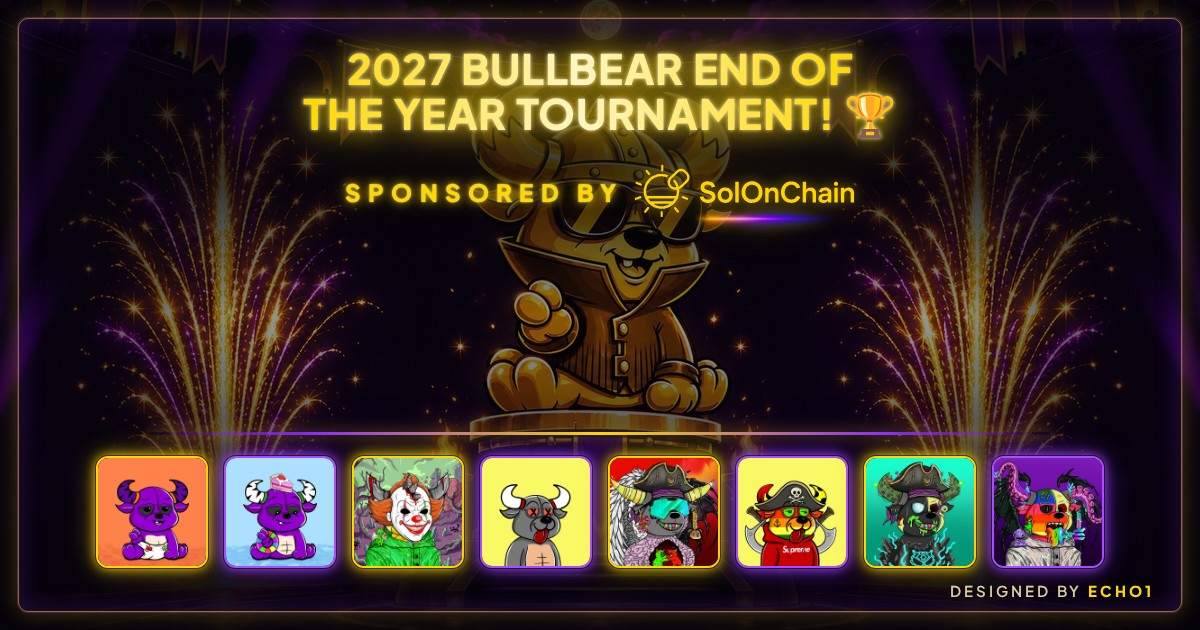
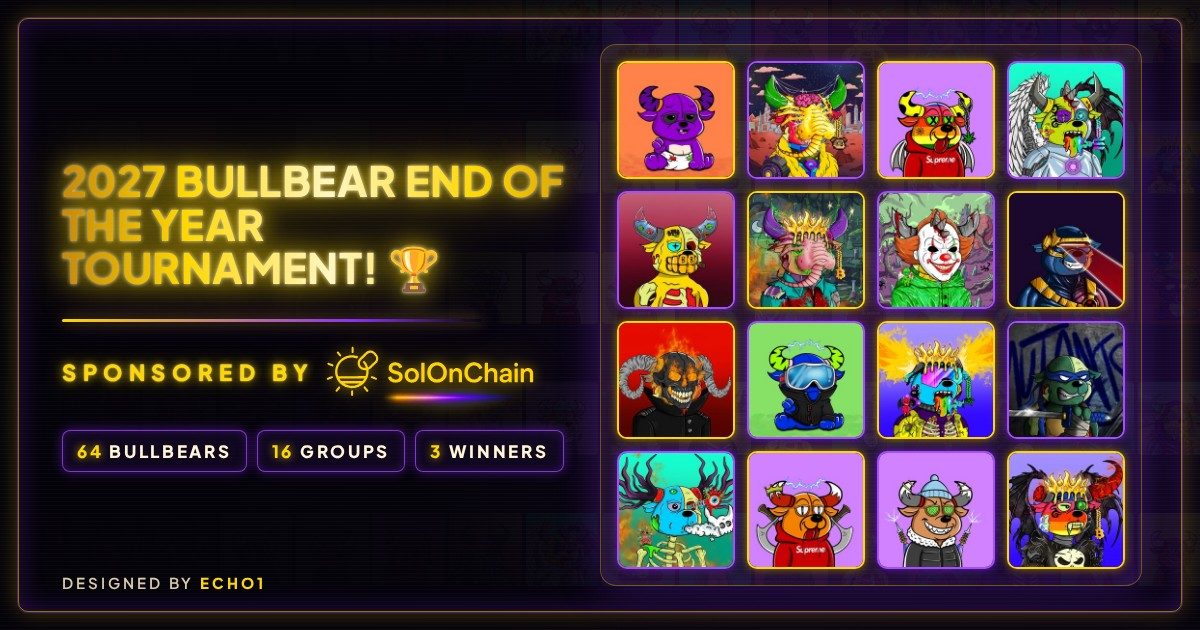
New BullBear preview card

diff --git a/soc_bracket/index.html b/soc_bracket/index.html
@@ -8,12 +8,12 @@
 <meta property="og:type" content="website">
 <meta property="og:title" content="2027 BullBear End of the Year TOURNamENT! 🏆">
 <meta property="og:url" content="https://echo1onchain.xyz/soc_bracket/">
-<meta property="og:image" content="https://echo1onchain.xyz/soc_bracket/og.jpg?v=fd5d3faa58">
+<meta property="og:image" content="https://echo1onchain.xyz/soc_bracket/og.jpg?v=ae2281afda">
 <meta property="og:image:width" content="1200">
 <meta property="og:image:height" content="630">
 <meta name="twitter:card" content="summary_large_image">
 <meta name="twitter:title" content="2027 BullBear End of the Year TOURNamENT! 🏆">
-<meta name="twitter:image" content="https://echo1onchain.xyz/soc_bracket/og.jpg?v=fd5d3faa58">
+<meta name="twitter:image" content="https://echo1onchain.xyz/soc_bracket/og.jpg?v=ae2281afda">
 <meta name="description" content="View the live bracket · Sponsored by SolOnChain">
 <meta property="og:description" content="View the live bracket · Sponsored by SolOnChain">
 <meta property="og:image:alt" content="2027 BullBear End of the Year TOURNamENT! 🏆 · Sponsored by SolOnChain">
